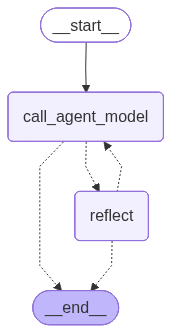
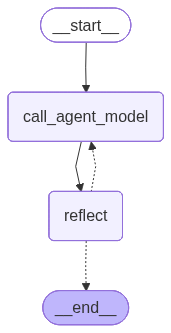
updated graph

diff --git a/enrichment/graphOLD.py b/enrichment/graphOLD.py
@@ -46,7 +46,7 @@ async def call_agent_model(
 
 # A simplified reflection step that asks the LLM if the answer is satisfactory.
 class ReflectionResult(BaseModel):
-    reflect_score: bool = Field(
+    is_satisfactory: bool = Field(
         ...,
         description=(
             "Whether the answer is satisfactory."
@@ -72,52 +72,44 @@ async def reflect(
 
     messages: List[BaseMessage] = [HumanMessage(content=prompt_text)]
     model = init_model(config).with_structured_output(ReflectionResult)
-    response: ReflectionResult = await model.ainvoke(messages)
+    reflection: ReflectionResult = await model.ainvoke(messages)
 
-    return {
-        "reflect_score": response.reflect_score,
-        "messages": [HumanMessage(f"Score: {response.reflect_score}")],
-    }
-
-    # # If the answer is satisfactory, we finish. Otherwise, we can loop for improvement.
-    # if reflection.is_satisfactory:
-    #     return {
-    #         "answer": state.answer,  # REPLACED
-    #         "messages": [HumanMessage(content=reflection.feedback)],
-    #     }
-    # else:
-    #     return {
-    #         "messages": [HumanMessage(content=f"Feedback: {reflection.feedback}")],
-    #     }
+    # If the answer is satisfactory, we finish. Otherwise, we can loop for improvement.
+    if reflection.is_satisfactory:
+        return {
+            "answer": state.answer,  # REPLACED
+            "messages": [HumanMessage(content=reflection.feedback)],
+        }
+    else:
+        return {
+            "messages": [HumanMessage(content=f"Feedback: {reflection.feedback}")],
+        }
 
 
 ### Routing Functions
 
 
-def route_after_agent(state: State, config: RunnableConfig) -> str:
+def route_after_agent(state: State) -> str:
     """
     Decide the next step.
     If an answer is produced, move to reflection.
     """
     print("---Route_after_agent step---")
+    if state.answer:  # REPLACED
+        return "reflect"
+    return "call_agent_model"
+
+
+def route_after_checker(state: State, config: RunnableConfig) -> str:
+    """
+    Decide whether to iterate or finish.
+    If the loop count is below max_loops and the answer is unsatisfactory, repeat.
+    Otherwise, terminate.
+    """
     configuration = Configuration.from_runnable_config(config)
-    if state.reflect_score:
-        return "__end__"
-    elif not state.reflect_score and state.loop_step < configuration.max_loops:
+    if state.loop_step < configuration.max_loops and not state.answer:  # REPLACED
         return "call_agent_model"
     return "__end__"
-
-
-# def route_after_checker(state: State, config: RunnableConfig) -> str:
-#     """
-#     Decide whether to iterate or finish.
-#     If the loop count is below max_loops and the answer is unsatisfactory, repeat.
-#     Otherwise, terminate.
-#     """
-#     configuration = Configuration.from_runnable_config(config)
-#     if state.loop_step < configuration.max_loops and not state.answer:  # REPLACED
-#         return "call_agent_model"
-#     return "__end__"
 
 
 ### Workflow Graph
@@ -129,13 +121,8 @@ workflow = StateGraph(
 workflow.add_node(call_agent_model)
 workflow.add_node(reflect)
 workflow.add_edge("__start__", "call_agent_model")
-workflow.add_edge("call_agent_model", "reflect")
-workflow.add_conditional_edges(
-    "reflect",
-    route_after_agent,
-    {"call_agent_model": "call_agent_model", "__end__": "__end__"},
-)
-# workflow.add_conditional_edges("reflect", route_after_checker)
+workflow.add_conditional_edges("call_agent_model", route_after_agent)
+workflow.add_conditional_edges("reflect", route_after_checker)
 
 graph = workflow.compile()
 graph.name = "ResearchTopic"

diff --git a/stakeholder_extractor.py b/stakeholder_extractor.py
@@ -98,7 +98,7 @@ async def extract_stakeholders_from_text(supabase, text: str) -> List[Dict[str, 
 
     final_state = await graph.ainvoke(initial_state, config)
 
-    print(final_state.get("answer", ""))
+    # print(final_state.get("answer", ""))
     return parse_json_response(final_state.get("answer", ""))
 
 
@@ -219,3 +219,65 @@ async def main():
 
 if __name__ == "__main__":
     asyncio.run(main())
+
+
+# # # #######################################
+
+# from enrichment.state import InputState
+# from enrichment.configuration import Configuration
+# from enrichment import graph
+
+
+# # initial_state = InputState(topic=text, extraction_schema=STAKEHOLDER_SCHEMA)
+
+# config = Configuration(
+#     model="openai/gpt-4o-mini",
+#     prompt=(
+#         "You are an assistant tasked with extracting specific information from the provided text using the extraction schema.\n\n"
+#         "Schema:\n{schema}\n\n"
+#         "Text:\n{topic}\n\n"
+#         "Please provide your answer directly in clear text, filling in the schema (In English)."
+#         "CRITICAL: Multiple stakeholders expected. Return **COMPLETE ARRAY**.\n"
+#         "Even if only 1 stakeholder found, use array format: [{}]\n\n"
+#         # "RAW JSON ARRAY ONLY. NO TEXT. NO EXPLANATION. NO MARKDOWN.\n\n"
+#     ),
+#     max_loops=2,
+# ).__dict__
+
+# supabase = initialize_supabase()
+# # selections = select_brain_from_workspace()
+# brain_id = "0007f8b8-72d9-4952-b0a3-0fd2ff1cc2ed"
+# # selected_brain = selections["brains"]
+# documents = get_documents_per_brain(supabase, brain_id)
+# print(f"Found {len(documents)} documents")
+# documents[0]
+# full_text = get_document_data(supabase, '0e677b8e-f337-427c-83b8-9e06ac991bd2')
+# # stakeholders = await extract_stakeholders_adaptive(supabase, full_text)
+
+# # Fetch full text for each document
+# all_stakeholders = []
+# for i, doc in enumerate(documents, 1):
+#     doc_id = doc["id"]
+#     filename = doc.get("file_name", "Unknown")
+#     print(f"  {i}/{len(documents)}: {filename} ({doc_id[:8]}...)")
+
+#     try:
+#         full_text = get_document_data(supabase, doc_id)
+#         full_text = full_text.encode("utf-8").decode("unicode_escape")
+#         if full_text:
+#             # stakeholders = await extract_stakeholders_from_text(supabase, full_text)
+#             stakeholders = await extract_stakeholders_adaptive(supabase, full_text)
+#             all_stakeholders.extend(stakeholders)
+#     except Exception as e:
+#         print(f"    Error processing {filename}: {e}")
+
+# all_stakeholders = await normalize_stakeholder_names(all_stakeholders)
+# print(f"Normalized: {len(all_stakeholders)} stakeholders with canonical names.")
+
+# # Save JSON
+# output = {
+#     "brain": brain_name,
+#     "brain_id": brain_id,
+#     "stakeholders": all_stakeholders,
+# }
+# # print(f"OUTPUT:{output}")

diff --git a/enrichment/state.py b/enrichment/state.py
@@ -22,6 +22,7 @@ class State(InputState):
     answer: Optional[dict[str, Any]] = None
     messages: Annotated[List[BaseMessage], add_messages] = field(default_factory=list)
     loop_step: Annotated[int, operator.add] = field(default=0)
+    reflect_score: Optional[bool] = None
 
 
 @dataclass(kw_only=True)
